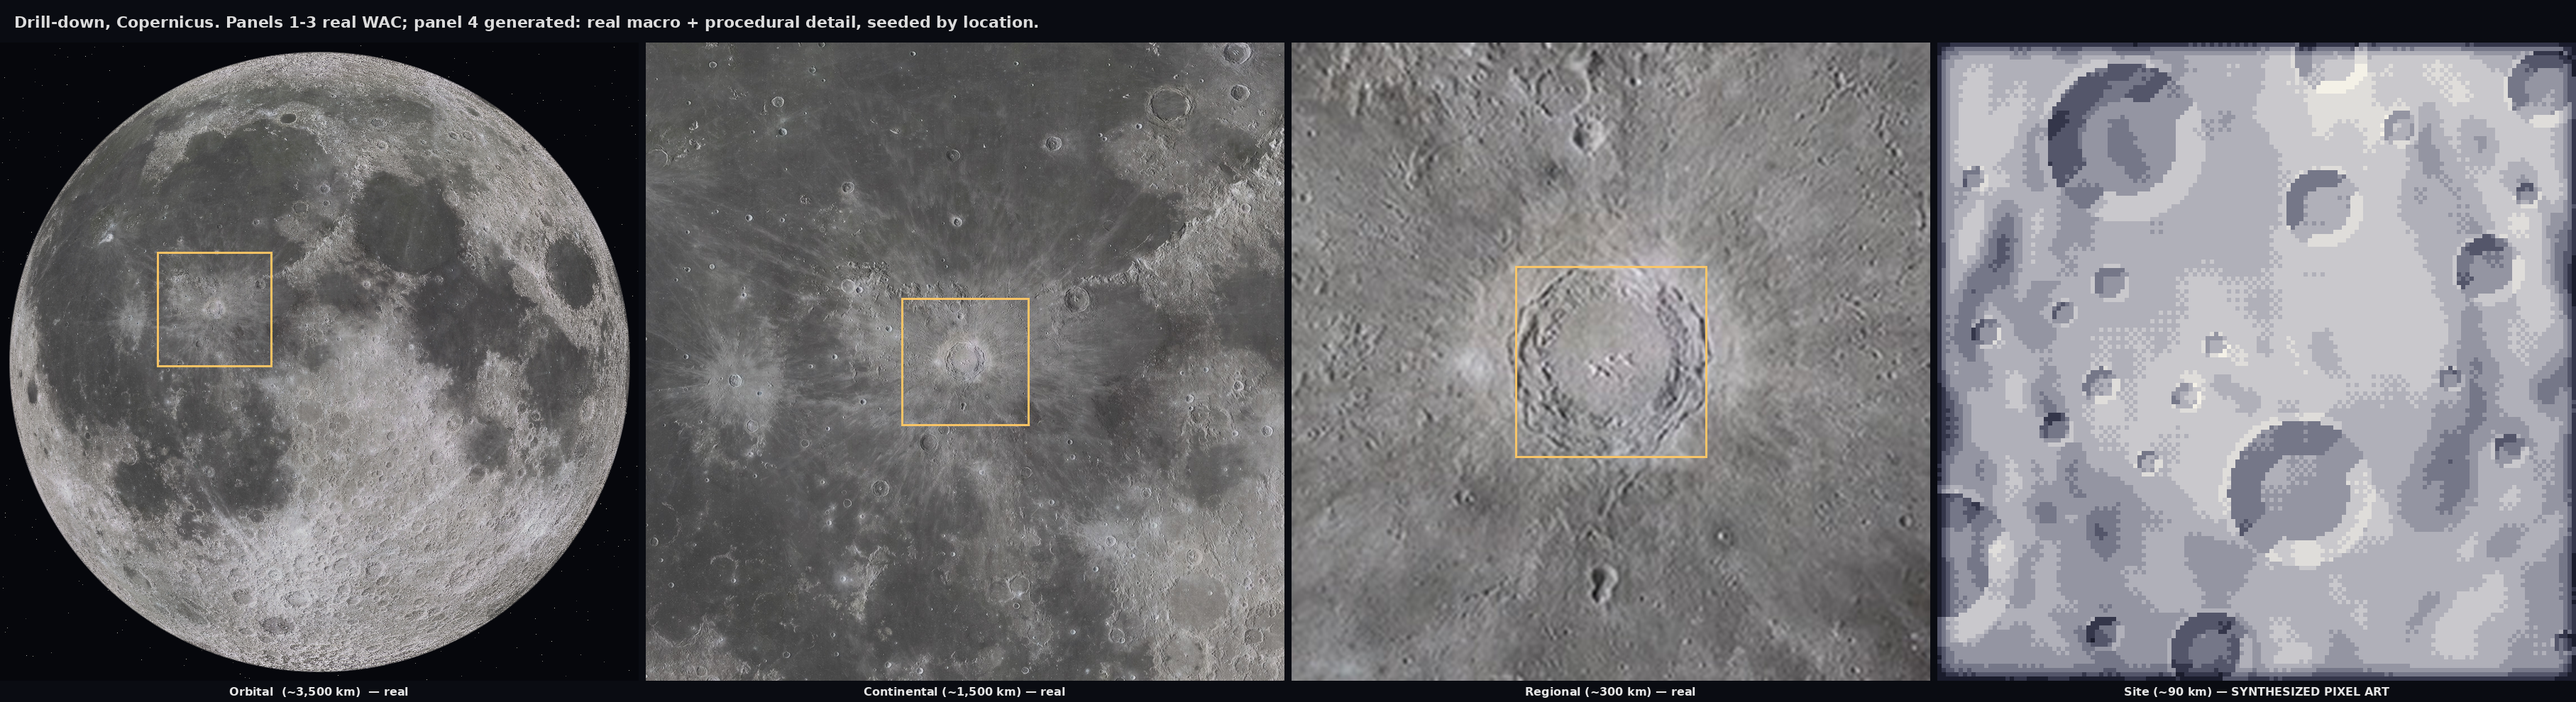
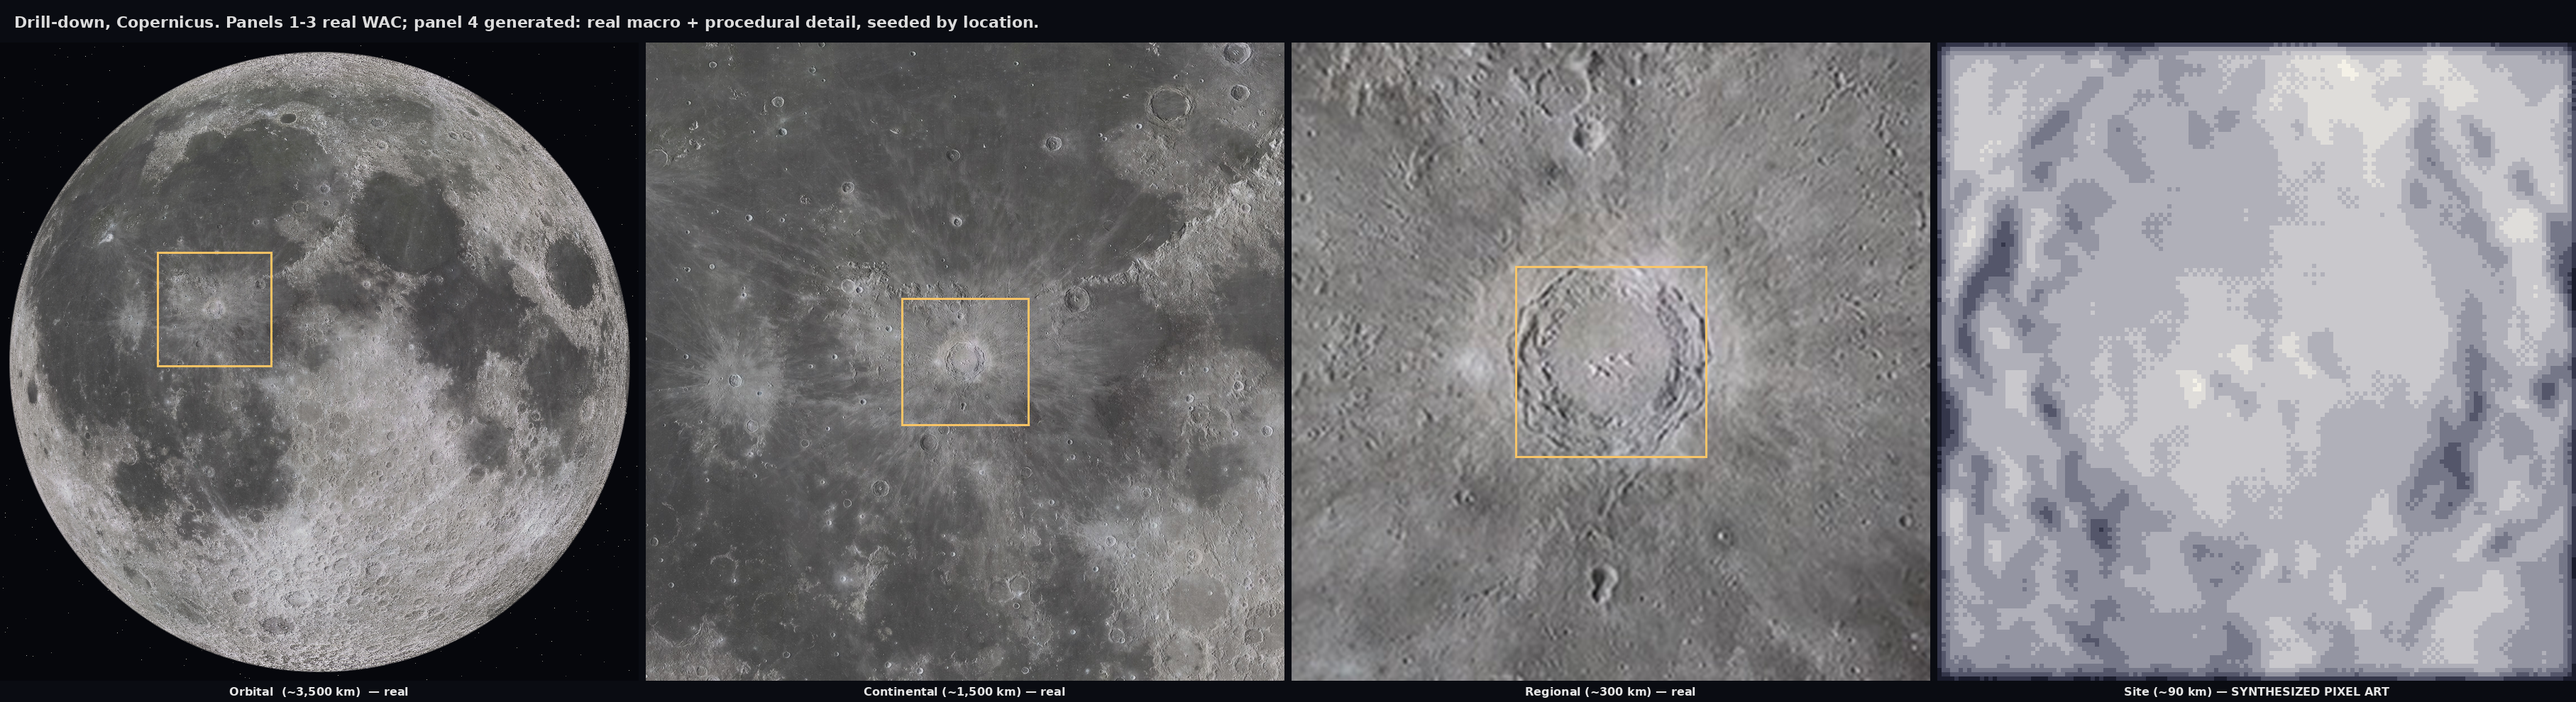
Remove invented craters from site synthesis; add random-locations grid
User verdict on the two styles: the amplification of real forms works,
the procedurally invented craters were the problem. Both paths now
carry only real forms — photo-real keeps denoise/unsharp/adaptive
contrast + quiet regolith grain; pixel art keeps the tonal 9-tone
stylization with light smoothing (hard blur turned crater-free forms
into amoebas).

render_random_locations renders 6 random near-side sites as a
real / photo-real / pixel-art grid for style judgment across terrain.

Claude-Session: https://claude.ai/code/session_01R53H9rwCJr6Uu2HWxFWVsd

Changed region(s): [[0.7471, 0.0606, 1.0, 0.9697], [0.9961, 0.8182, 1.0, 0.8485], [0.9339, 0.8182, 0.965, 0.8485]]

diff --git a/prototypes/planet_visuals/site_synthesis.py b/prototypes/planet_visuals/site_synthesis.py
@@ -37,8 +37,7 @@ import os
 import numpy as np
 from PIL import Image, ImageDraw, ImageFont
 
-from generate import (apply_craters, cast_shadows, fbm, gaussian_blur,
-                      hillshade, pink_noise, sample_craters)
+from generate import cast_shadows, fbm, gaussian_blur, hillshade, pink_noise
 from multi_zoom import WAC_PATH, crop_equirect_region, latlon_to_disc
 from wrap_to_sphere import wrap_to_sphere
 
@@ -131,27 +130,14 @@ def synthesize_site(wac: np.ndarray, lat_deg: float, lon_deg: float,
     density = np.clip((macro - 0.22) / 0.45, 0.15, 1.0)
     roughness = 0.45 + 0.55 * density
 
-    # -- Detail heightmap: only features BELOW the source floor.
-    #    Source floor ~1.3 km/px -> craters under ~4 km diameter are
-    #    invisible in the real data. At ~300 m per synth pixel that is
-    #    a radius cap of ~7 px. size_scale=0.16 puts the crater buckets
-    #    at roughly r 1.3..17 px (0.4..5 km dia); the few biggest sit at
-    #    the floor boundary where real data fades out.
-    craters = sample_craters(shape, rng,
-                             count_small=70, count_med=16, count_big=3,
-                             min_separation=1.25,
-                             size_scale=0.22, size_variance=0.8)
-    kept = []
-    for c in craters:
-        cy = min(synth_res - 1, max(0, int(c.cy)))
-        cx = min(synth_res - 1, max(0, int(c.cx)))
-        if rng.random() < density[cy, cx]:
-            kept.append(c)
-
+    # -- Detail heightmap. Invented craters REMOVED (user decision
+    #    2026-08-13: "you just created craters where there are none" —
+    #    the amplification of real forms worked, the invention didn't).
+    #    What remains is surface texture only: regolith grain and a
+    #    gentle undulation. Every crater in the output is a real one.
     height = np.zeros(shape, dtype=np.float32)
-    apply_craters(height, kept, rng, depth_variance=1.0, depth_scale=1.0)
 
-    # Regolith grain between craters — pink noise matches natural
+    # Regolith grain — pink noise matches natural
     # rough-surface statistics. Quiet: it is texture, not terrain.
     height += 0.004 * pink_noise(shape, rng) * roughness
     # Gentle undulation so flat stretches are not billiard-table flat.
@@ -235,7 +221,9 @@ def synthesize_pixelart(wac: np.ndarray, lat_deg: float, lon_deg: float,
         Image.fromarray(native, mode="F").resize((pix_res, pix_res),
                                                  Image.BICUBIC),
         dtype=np.float32)
-    macro = gaussian_blur(macro, 1.6)
+    # Light smoothing only — with no invented craters, the real forms
+    # carry the whole picture; heavy blur turned them into amoebas.
+    macro = gaussian_blur(macro, 0.7)
 
     # Gentle adaptive expansion around the crop's own midpoint.
     p_lo, p_hi = np.percentile(macro, [3.0, 97.0])
@@ -251,52 +239,9 @@ def synthesize_pixelart(wac: np.ndarray, lat_deg: float, lon_deg: float,
     # smooth, not noisy.
     tone += 1.1 * (fbm(shape, 3, 56, 0.5, rng) - 0.5)
 
-    # Conditioning: crater count scales with brightness (highland dense,
-    # mare sparse) — same idea as the realistic path, fewer craters.
-    density = np.clip((macro - 0.25) / 0.45, 0.20, 1.0)
-
-    # Fewer, bigger craters — pebble-sprinkle reads as noise; a handful
-    # of confident bowls reads as pixel art.
-    craters = sample_craters(shape, rng,
-                             count_small=16, count_med=8, count_big=3,
-                             min_separation=1.45,
-                             size_scale=0.26, size_variance=0.8)
-    # Unit vector pointing TOWARD the sun (north-west, up-left in
-    # screen coords where y grows downward).
-    sx, sy = -0.7071, -0.7071
-
-    yy, xx = np.mgrid[0:pix_res, 0:pix_res].astype(np.float32)
-    for c in craters:
-        cy = min(pix_res - 1, max(0, int(c.cy)))
-        cx = min(pix_res - 1, max(0, int(c.cx)))
-        if rng.random() >= density[cy, cx]:
-            continue
-        r = max(3.0, c.r)
-        dx = (xx - c.cx) / r
-        dy = (yy - c.cy) / r
-        d = np.sqrt(dx * dx + dy * dy)
-        inside = d < 1.0
-        if not inside.any():
-            continue
-        # u > 0: the inner wall on the SUN side — faces away from the
-        # sun, so it is the shadowed wall of a concave bowl. u < 0: the
-        # far wall, whose inner face catches the light.
-        u = dx * sx + dy * sy
-        delta = np.zeros(shape, dtype=np.float32)
-        # Floor: one tone down, flat and clean.
-        delta[inside] = -1.0
-        # Crescents HUG the walls (d > ~0.55) — wide ones turn the
-        # crater into a two-tone cookie instead of a bowl.
-        shadow = inside & (u > 0.15) & (d > 0.55)
-        delta[shadow] = -2.4
-        # Lit inner wall opposite, thinner still.
-        lit = inside & (u < -0.25) & (d > 0.65)
-        delta[lit] = +1.2
-        # Thin bright rim just outside on the sun side, where the
-        # outer slope catches the light.
-        rim = (d >= 1.0) & (d < 1.12) & (u > 0.25)
-        delta[rim] = +0.9
-        tone += delta
+    # Invented craters REMOVED (user decision 2026-08-13): every form
+    # in the output now comes from the real crop's big shapes. The
+    # stylization is purely tonal.
 
     # Ordered 2x2 dither at tone boundaries — classic pixel-art
     # blending, keeps gradients smooth without extra palette entries.
@@ -532,6 +477,71 @@ def render_locations(wac, site_fn=pixelart_site):
     path = os.path.join(OUT, "site_synthesis_locations.png")
     canvas.save(path)
     print(f"  wrote {path}")
+
+
+def render_random_locations(wac, n_sites=6, panel=440, seed=20260813):
+    """n_sites random near-side locations, each rendered three ways:
+    real (blurry), photo-real amplified, stylized pixel art — all with
+    NO invented craters. Grid: columns = sites, rows = styles."""
+    rng = np.random.default_rng(seed)
+    sites = []
+    while len(sites) < n_sites:
+        lat = float(rng.uniform(-55.0, 55.0))
+        lon = float(rng.uniform(-85.0, 85.0))
+        sites.append((lat, lon))
+
+    rows = []
+    row_labels = ["Real WAC (blurry)",
+                  "Amplified — photo-real",
+                  "Amplified — pixel art"]
+    real_row = []
+    photo_row = []
+    pixel_row = []
+    for lat, lon in sites:
+        real_row.append(real_blurry(wac, lat, lon).resize((panel, panel),
+                                                          Image.LANCZOS))
+        lum, _ = synthesize_site(wac, lat, lon)
+        photo_row.append(style_realistic(lum).resize((panel, panel),
+                                                     Image.LANCZOS))
+        pixel_row.append(pixelart_site(wac, lat, lon).resize(
+            (panel, panel), Image.NEAREST))
+    rows = [real_row, photo_row, pixel_row]
+
+    pad = 8
+    title_h = 60
+    cap_h = 26
+    label_w = 46
+    total_w = label_w + n_sites * panel + (n_sites - 1) * pad
+    total_h = title_h + 3 * (panel + pad) + cap_h
+    canvas = Image.new("RGB", (total_w, total_h), (10, 12, 18))
+    font_title, font_cap = _fonts()
+    draw = ImageDraw.Draw(canvas)
+    draw.text((20, 18),
+              "Random locations, no invented craters — every form is "
+              "real. Rows: real / photo-real amplified / pixel art.",
+              fill=(220, 220, 220), font=font_title)
+    for r, (row, label) in enumerate(zip(rows, row_labels)):
+        y = title_h + r * (panel + pad)
+        # Vertical row label
+        lbl = Image.new("RGB", (panel, label_w), (10, 12, 18))
+        ld = ImageDraw.Draw(lbl)
+        ld.text((8, 12), label, fill=(200, 200, 210), font=font_cap)
+        canvas.paste(lbl.rotate(90, expand=True), (0, y))
+        for i, p in enumerate(row):
+            x = label_w + i * (panel + pad)
+            canvas.paste(p.convert("RGB"), (x, y))
+    # Site captions under the last row
+    y = title_h + 3 * (panel + pad) - pad + 4
+    for i, (lat, lon) in enumerate(sites):
+        cap = f"({lat:+.1f}, {lon:+.1f})"
+        x = label_w + i * (panel + pad)
+        cw = draw.textlength(cap, font=font_cap)
+        draw.text((x + (panel - cw) // 2, y), cap,
+                  fill=(230, 230, 230), font=font_cap)
+    path = os.path.join(OUT, "site_synthesis_random.png")
+    canvas.save(path)
+    print(f"  wrote {path}")
+    return sites
 
 
 def check_determinism(wac, lat=9.6, lon=-20.0):

diff --git a/prototypes/planet_visuals/SITE_SYNTHESIS.md b/prototypes/planet_visuals/SITE_SYNTHESIS.md
@@ -71,6 +71,24 @@ style = lunar ramp (cool shadow → warm sunlit), continuous or
 | `output/site_synthesis_drilldown.png` | The 4-panel zoom strip with panel 4 synthesized |
 | `output/site_synthesis_locations.png` | Crater / mare / highland conditioning, real vs synth |
 
+## Correction (2026-08-13, later): no invented craters
+
+After seeing both styles, the user's verdict: the amplification of
+real forms works — **the invented craters were the problem** ("you
+just created craters where there are none"). Procedural crater
+generation is removed from BOTH paths. What remains per style:
+
+- **Photo-real**: native denoise → upsample → unsharp → adaptive
+  contrast, plus quiet regolith grain and undulation. Every crater in
+  the output is a real one from the WAC data.
+- **Pixel art**: the same real-form base, light smoothing (0.7 — the
+  earlier hard blur turned forms into amoebas once craters were gone),
+  9-tone quantise + ordered dither. Purely tonal stylization.
+
+`render_random_locations` renders N random near-side sites in a
+real / photo-real / pixel-art grid (`site_synthesis_random.png`) so
+the two surviving styles can be judged across arbitrary terrain.
+
 ## Style decision (2026-08-13): stylized pixel art
 
 The photo-real synthesis path was **rejected** by the user: *"I want
